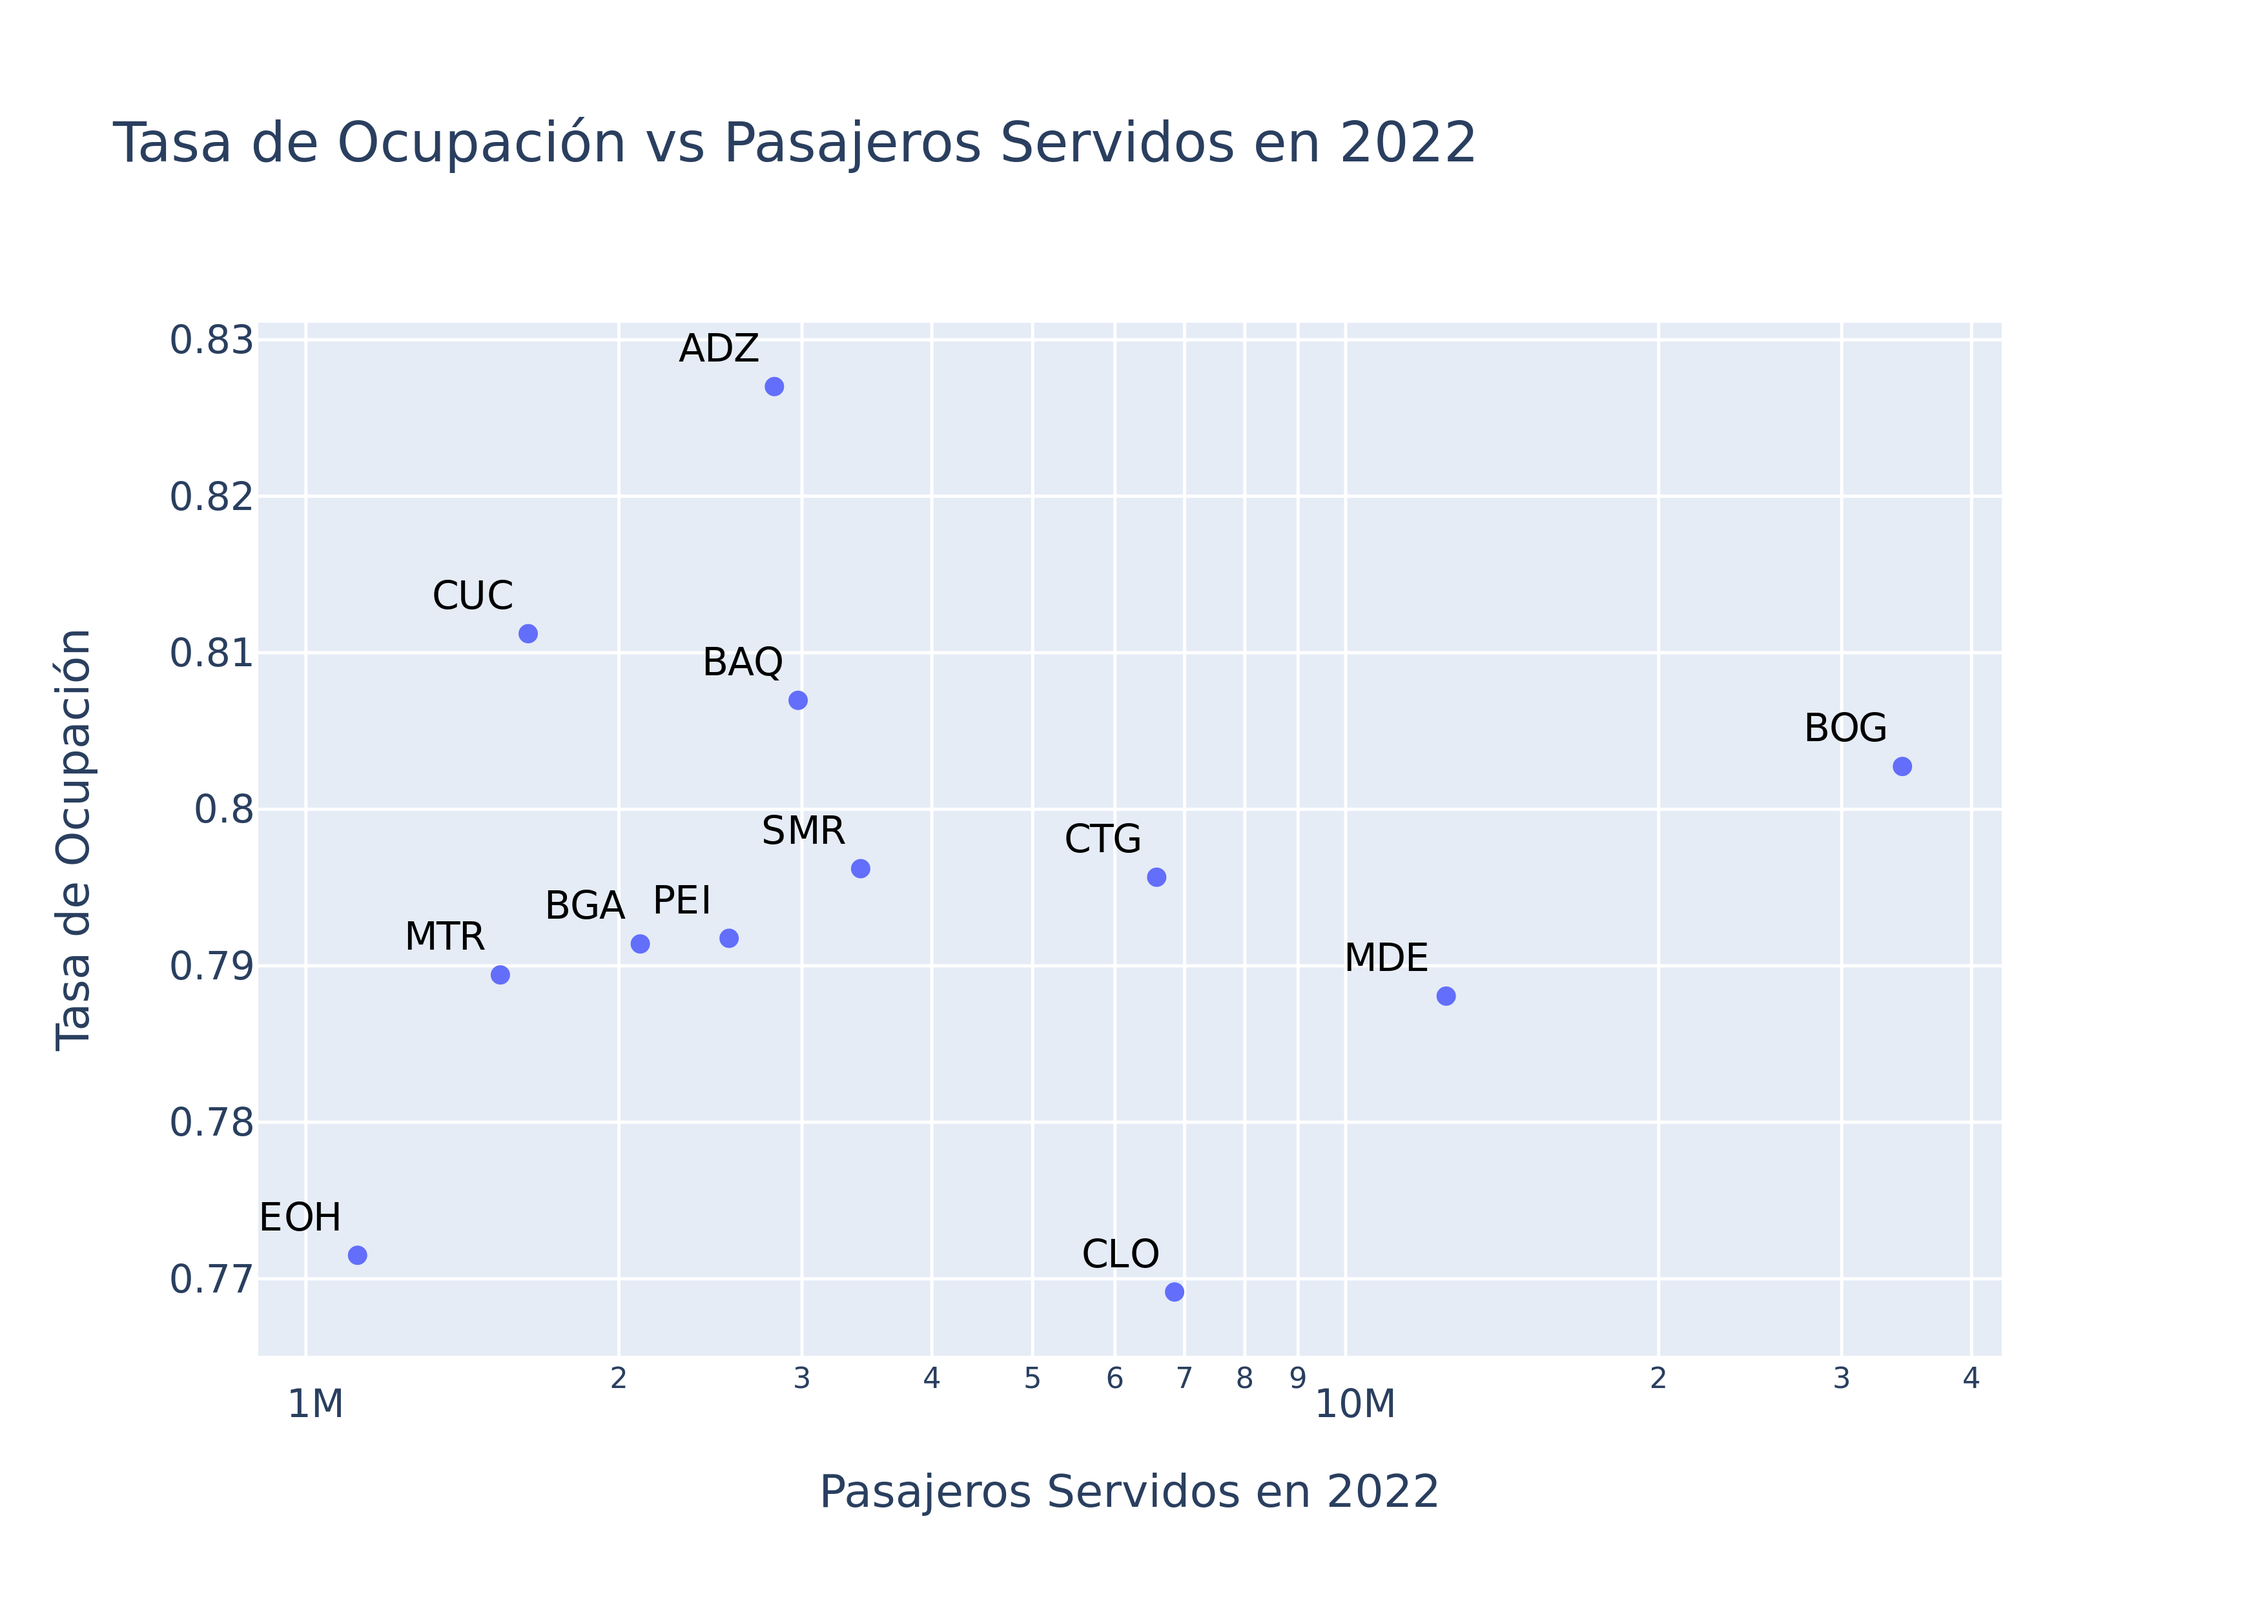
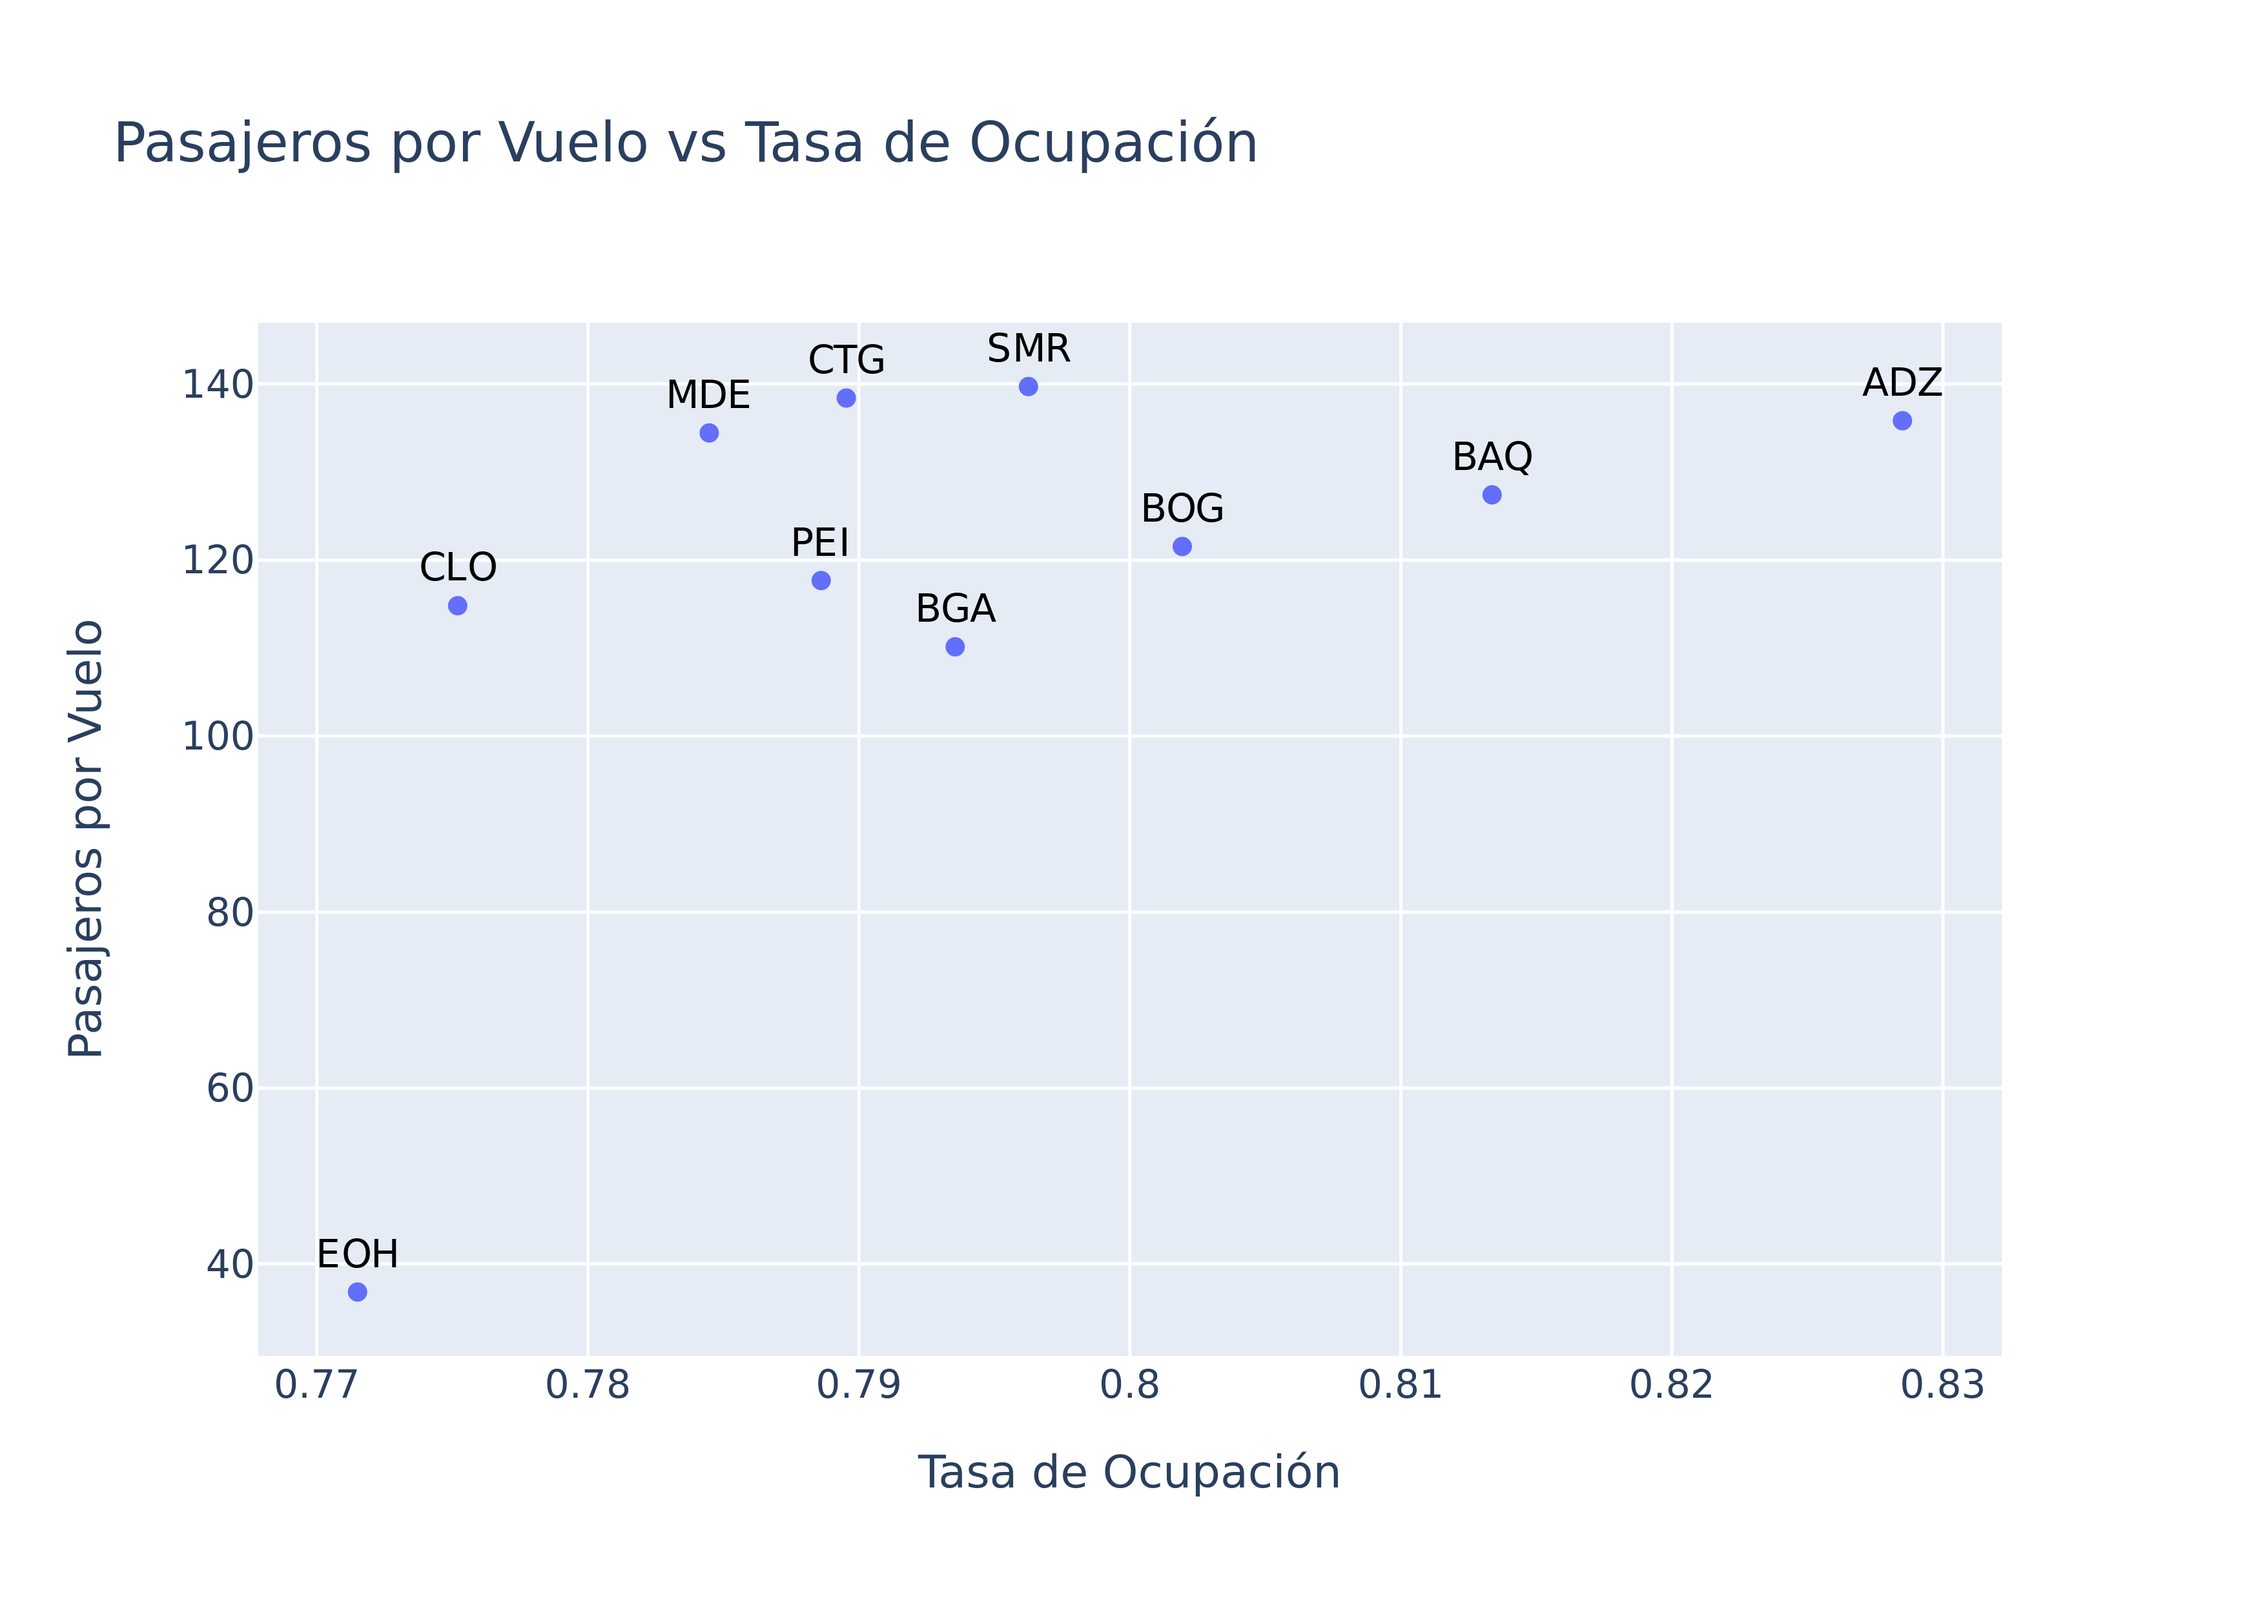
update graphs

diff --git a/analyze-and-plot.py b/analyze-and-plot.py
@@ -6,9 +6,9 @@ import plotly.express as px
 filename = 'data/vuelos-enero-2023.xlsx'
 sheet_name_international_flights = 'CUADRO 5'
 sheet_name_national_flights = 'CUADRO 6'
-num_rows_header = 7
+num_rows_header = 7 
 num_rows_footer = 1 # Aggregates row
-relevant_columns = 'A:F, I, K, M' # Airport and passenger info from 2022
+relevant_columns = 'A:F, G, I, K' # Airport and passenger info from 2022
 
 column_names = [
     'origin_code',
@@ -17,9 +17,9 @@ column_names = [
     'destination_code',
     'destination_city',
     'destination_state',
+    'number_of_flights',
     'seats_offered',
     'passengers',
-    'occupancy_rate',
 ]
 
 # %%
@@ -37,7 +37,7 @@ international_flights = pd.read_excel(
     filename,
     sheet_name=sheet_name_international_flights,
     skiprows=num_rows_header,
-    usecols=relevant_columns,
+    # usecols=relevant_columns,
     names=column_names,
     skipfooter=num_rows_footer,
 )
@@ -50,7 +50,7 @@ outgoing_flights_by_airport = (
     flights
     .query("origin_state == 'COLOMBIA'")
     .groupby('origin_code')
-    [['passengers', 'seats_offered']]
+    [['passengers', 'seats_offered', 'number_of_flights']]
     .sum()
     .astype(pd.Int64Dtype())
     .reset_index()
@@ -60,7 +60,7 @@ incoming_flights_by_airport = (
     flights
     .query("destination_state == 'COLOMBIA'")
     .groupby('destination_code')
-    [['passengers', 'seats_offered']]
+    [['passengers', 'seats_offered', 'number_of_flights']]
     .sum()
     .astype(pd.Int64Dtype())
     .reset_index()
@@ -80,11 +80,13 @@ flights_by_airport = (
 top_airports = (
     flights_by_airport
     .assign(
-        total_flights=lambda x: x['passengers_outgoing'] + x['passengers_incoming'],
+        total_passengers=lambda x: x['passengers_outgoing'] + x['passengers_incoming'],
+        total_flights=lambda x: x['number_of_flights_outgoing'] + x['number_of_flights_incoming'],
         total_seats=lambda x: x['seats_offered_outgoing'] + x['seats_offered_incoming'],
-        total_occupancy=lambda x: x['total_flights'] / x['total_seats']
+        passengers_per_flight=lambda x: x['total_passengers'] / x['total_flights'],
+        occupancy_rate=lambda x: x['total_passengers'] / x['total_seats'],
     )
-    .nlargest(12, 'total_flights')
+    .nlargest(10, 'total_flights')
     .reset_index(drop=True)
 )
 
@@ -95,11 +97,12 @@ top_airports
 top_airports_to_plot = top_airports.rename(
     {
         'airport_code': 'Código de Aeropuerto',
-        'passengers_outgoing': 'Origen',
-        'passengers_incoming': 'Destino',
-        'total_flights': 'Pasajeros Servidos en 2022',
+        'number_of_flights_outgoing': 'Origen',
+        'number_of_flights_incoming': 'Destino',
+        'total_flights': 'Número de Vuelos en 2022',
+        'passengers_per_flight': 'Pasajeros por Vuelo',
         'total_seats': 'Sillas',
-        'total_occupancy': 'Tasa de Ocupación',
+        'occupancy_rate': 'Tasa de Ocupación',
     },
     axis=1,
 )
@@ -109,10 +112,10 @@ fig_bars = px.histogram(
     x='Código de Aeropuerto',
     y=['Origen', 'Destino'],
     barmode='stack',
-    title='Top 12 Aeropuertos por Pasajeros Servidos en 2022',
+    title='Top 12 Aeropuertos por Número de Vuelos en 2022',
     labels={
         'airport_code': 'Código de Aeropuerto',
-        'value': 'Pasajeros',
+        'value': 'Vuelos',
         'variable': 'El Aeropuerto es:',
     },
 )
@@ -122,15 +125,15 @@ fig_bars.write_image('media/top_airports.png', scale=5)
 
 fig_scatter = px.scatter(
     top_airports_to_plot,
-    x='Pasajeros Servidos en 2022',
-    y='Tasa de Ocupación',
+    x='Tasa de Ocupación',
+    y='Pasajeros por Vuelo',
     text='Código de Aeropuerto',
-    title='Tasa de Ocupación vs Pasajeros Servidos en 2022',
-    log_x=True,
+    title='Pasajeros por Vuelo vs Tasa de Ocupación',
+    # log_x=True,
 )
 
 fig_scatter.update_traces(
-    textposition='top left',
+    textposition='top center',
     textfont=dict(size=12, color='black', family='Arial',),
 )
 
